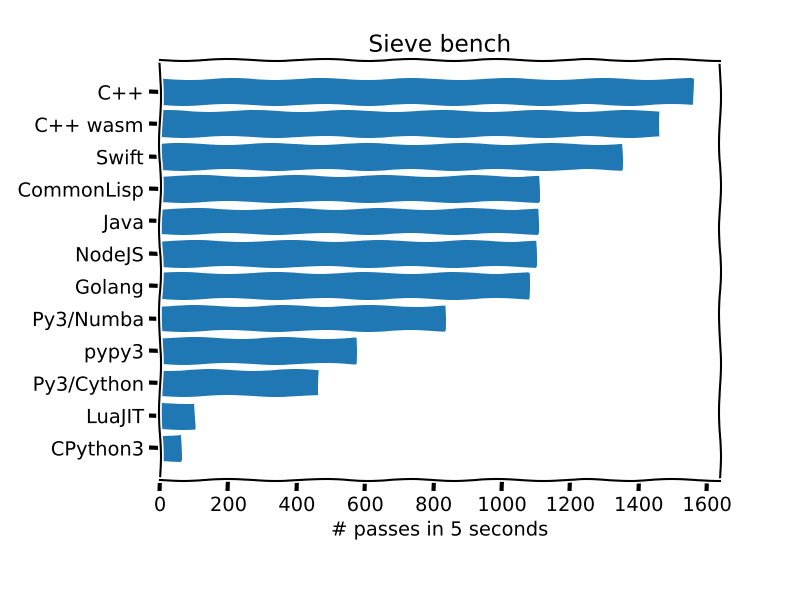
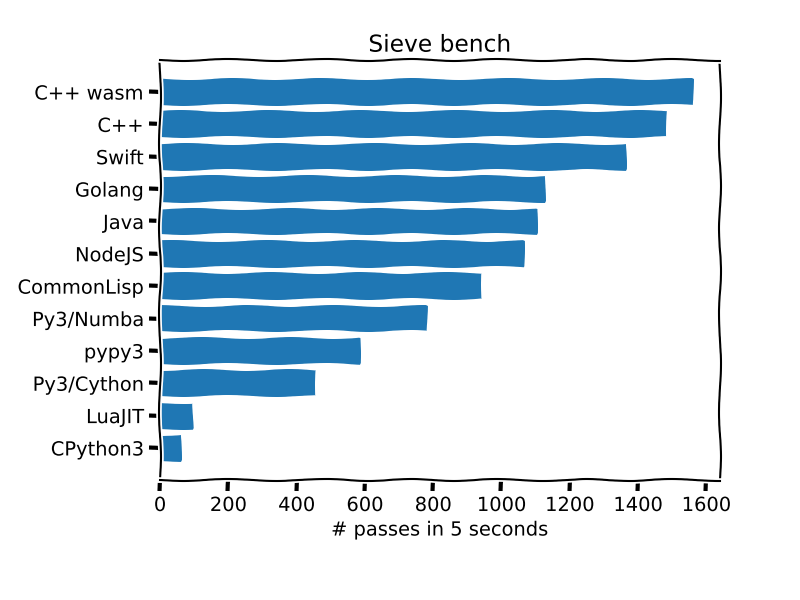
deploy: 256202ecc0e851a8bed17a582c21f58e8e47a638

diff --git a/results/index.html b/results/index.html
@@ -280,73 +280,73 @@
 <h1 id="raw-results">Raw Results</h1>
 <p>Code executed on GitHub Actions. Plot and raw results are below.</p>
 <p><img alt="plot" src="../plot1.png" /></p>
-<pre><code>Wed Oct 19 22:11:27 UTC 2022
+<pre><code>Thu Oct 20 00:56:19 UTC 2022
 
 Distributor ID: Ubuntu
 Description:    Ubuntu 20.04.5 LTS
 Release:    20.04
 Codename:   focal
 
-Linux fv-az278-55 5.15.0-1020-azure #25~20.04.1-Ubuntu SMP Thu Sep 1 19:20:56 UTC 2022 x86_64 x86_64 x86_64 GNU/Linux
+Linux fv-az241-665 5.15.0-1022-azure #27~20.04.1-Ubuntu SMP Mon Oct 17 02:03:50 UTC 2022 x86_64 x86_64 x86_64 GNU/Linux
 
 
-1560
-C++
-g++ (Ubuntu 9.4.0-1ubuntu1~20.04.1) 9.4.0
-Copyright (C) 2019 Free Software Foundation, Inc.
-This is free software; see the source for copying conditions.  There is NO
-warranty; not even for MERCHANTABILITY or FITNESS FOR A PARTICULAR PURPOSE.
-
-1463
+1562
 C++ wasm
 emcc (Emscripten gcc/clang-like replacement + linker emulating GNU ld) 3.1.24 (68a9f990429e0bcfb63b1cde68bad792554350a5)
 Copyright (C) 2014 the Emscripten authors (see AUTHORS.txt)
 This is free and open source software under the MIT license.
 There is NO warranty; not even for MERCHANTABILITY or FITNESS FOR A PARTICULAR PURPOSE.
 
-1351
+1485
+C++
+g++ (Ubuntu 9.4.0-1ubuntu1~20.04.1) 9.4.0
+Copyright (C) 2019 Free Software Foundation, Inc.
+This is free software; see the source for copying conditions.  There is NO
+warranty; not even for MERCHANTABILITY or FITNESS FOR A PARTICULAR PURPOSE.
+
+1366
 Swift
 Swift version 5.7 (swift-5.7-RELEASE)
 Target: x86_64-unknown-linux-gnu
 
-1110
-CommonLisp
-SBCL 2.0.1.debian
+1127
+Golang
+go version go1.13.8 linux/amd64
 
-1106
+1104
 Java
 openjdk 11.0.16.1 2022-08-12
 OpenJDK Runtime Environment Temurin-11.0.16.1+1 (build 11.0.16.1+1)
 OpenJDK 64-Bit Server VM Temurin-11.0.16.1+1 (build 11.0.16.1+1, mixed mode)
 
-1101
+1065
 NodeJS
-v16.17.1
+v16.18.0
 
-1079
-Golang
-go version go1.13.8 linux/amd64
+943
+CommonLisp
+SBCL 2.0.1.debian
 
-834
+783
 Py3/Numba
 Python 3.8.10
 Numba 0.56.3
 
-574
+585
 pypy3
 Python 3.6.9 (7.3.1+dfsg-4, Apr 22 2020, 05:15:29)
 [PyPy 7.3.1 with GCC 9.3.0]
 
-465
+457
 Py3/Cython
 Cython 0.29.32
 Python 3.8.10
 
-101
+98
 LuaJIT
 LuaJIT 2.1.0-beta3 -- Copyright (C) 2005-2017 Mike Pall. http://luajit.org/
 
-60
+61
 CPython3
 Python 3.8.10
 </code></pre>
